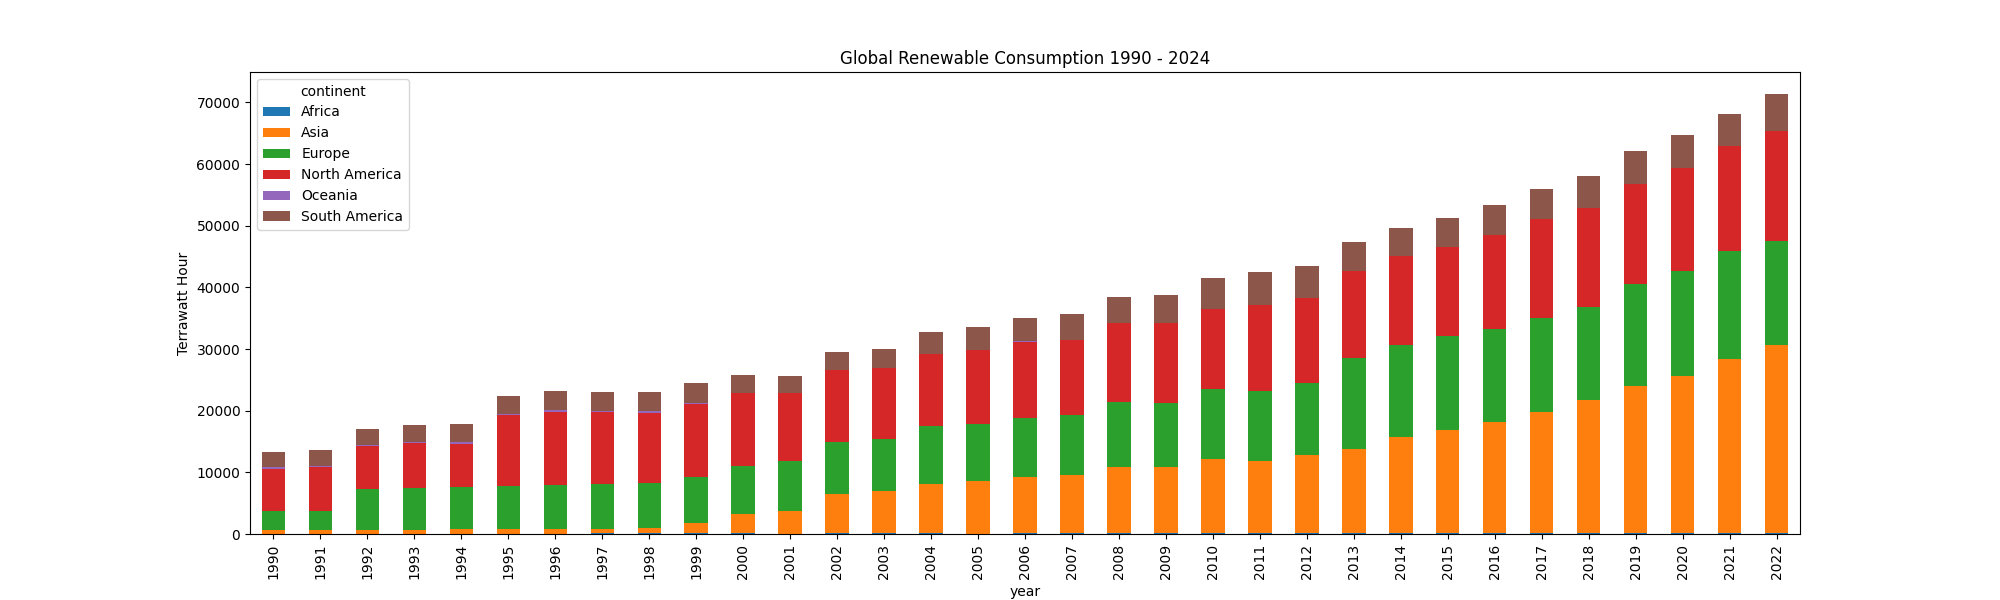
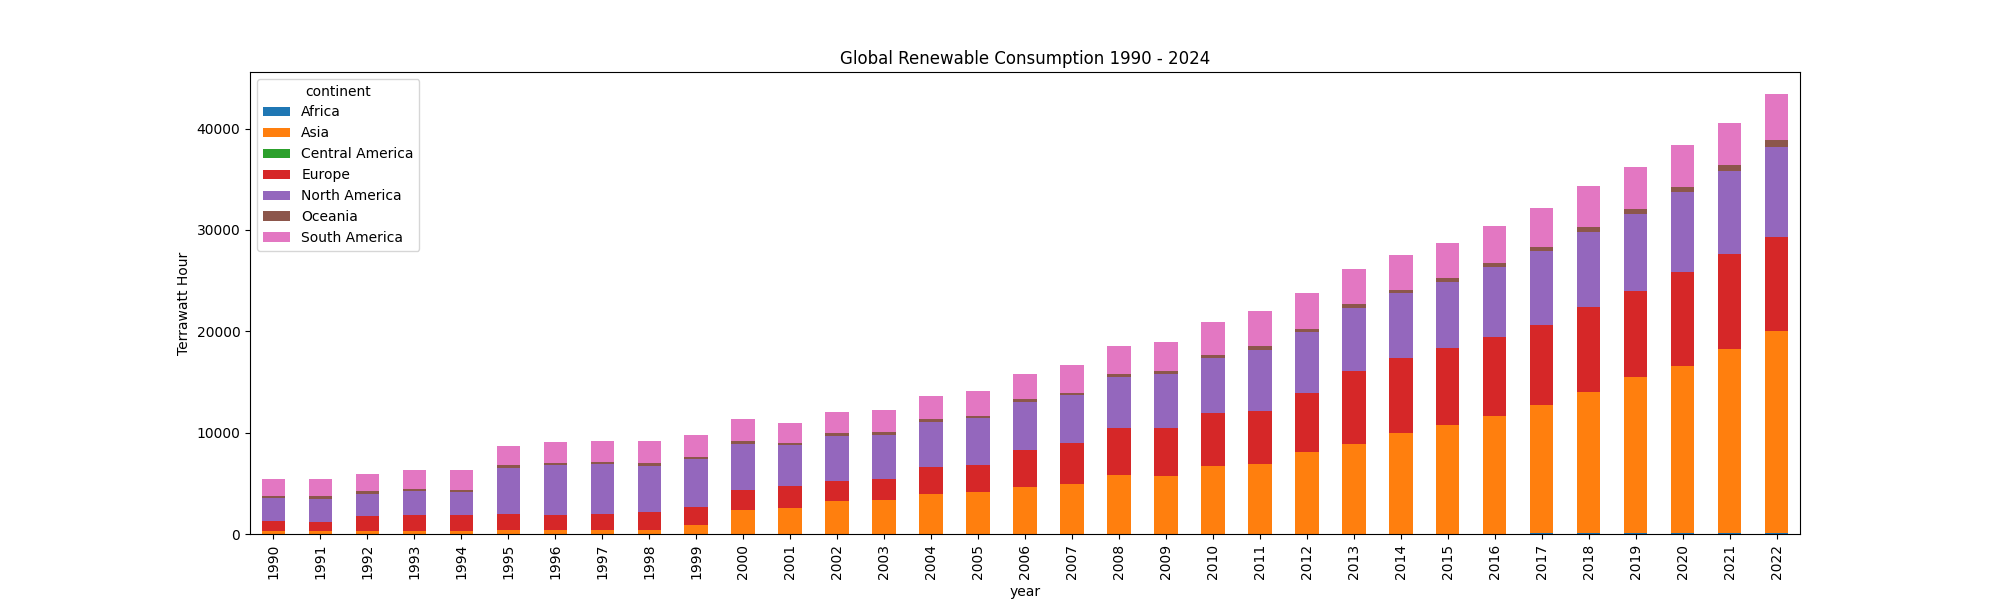
adicionei um grafico

diff --git a/src/data_cleaner.py b/src/data_cleaner.py
@@ -7,7 +7,7 @@ Created on Tue Oct  8 11:52:47 2024
 import numpy as np
 import pandas as pd
 
-df = pd.read_csv("..\data\World Energy Consumption.csv")
+df = pd.read_csv(".\data\World Energy Consumption.csv")
 #print(df.info())
 #print(df.head())
 
@@ -96,7 +96,7 @@ countries_by_continent_map = {
     "Oceania": ["Australia", "Fiji", "Kiribati", "Marshall Islands", "Micronesia", "Nauru", "New Zealand", "Palau", "Papua New Guinea", "Samoa", "Solomon Islands", "Tonga", "Tuvalu", "Vanuatu"]
 }
 
-# Filters lines that are countries and are defined in the dictionary
+# Filters rows that are countries and are defined in the dictionary
 def continent_identifier(country: str) -> str:
     """
     Identifies the continent of a country.
@@ -141,18 +141,17 @@ def renewable_energy_consumption_by_continent(df: pd.DataFrame) -> pd.DataFrame:
     # Creates a new column with the continent of each country
     df["continent"] = df["country"].apply(continent_identifier)
     # Filters the columns of interest
-    df_continents = df[["continent", "year", "biofuel_consumption", "hydro_consumption", "other_renewable_consumption", "renewables_consumption", "solar_consumption", "wind_consumption"]]
-    # Filters the lines without empty values
-    no_nulls_rows = df_continents.dropna(subset=["biofuel_consumption", "hydro_consumption", "other_renewable_consumption", "renewables_consumption", "solar_consumption", "wind_consumption"], how='any')
-    # Filters the valid lines with years between 1990 and 2024
-    new_df = no_nulls_rows[(no_nulls_rows['year'] >= 1990) & (no_nulls_rows['year'] <= 2024)]
+    df_continents = df[["continent", "year", "population", "biofuel_consumption", "hydro_consumption", "other_renewable_consumption", "renewables_consumption", "solar_consumption", "wind_consumption"]]
+    # Filters the rows that have no data in the columns of interest
+    filtered_df = df_continents.dropna(subset=["biofuel_consumption", "hydro_consumption", "other_renewable_consumption", "renewables_consumption", "solar_consumption", "wind_consumption"], how='all')
+    # Filters the rows that have no data in the population column
+    null_population_continents = df.groupby("continent").filter(lambda x: x["population"].isna().all())["continent"].unique()
+    # Junta os filtros e coloca o intervalo de tempo desejado
+    new_df = filtered_df[~filtered_df["continent"].isin(null_population_continents) & (filtered_df["year"].between(1990, 2024))]
     return new_df
 
 # Calls the function to create the new DataFrame
 renewable_energy_consumption_continental = renewable_energy_consumption_by_continent(df)
-
-    
-    
     
     
     

diff --git a/src/continent_consumption_analysis.py b/src/continent_consumption_analysis.py
@@ -14,13 +14,13 @@ df = pd.DataFrame(data_cleaner.renewable_energy_consumption_continental)
 df['total_renewable_consumption'] = (
     df['biofuel_consumption'] +
     df['hydro_consumption'] +
-    df['low_carbon_consumption'] +
-    df['nuclear_consumption'] +
     df['other_renewable_consumption'] +
     df['renewables_consumption'] +
     df['solar_consumption'] +
     df['wind_consumption']
 )
+
+df['renewable_consumption_per_capita'] = df['total_renewable_consumption'] / df['population']
 
 # Plots the stacked bar chart
 def plot_renewable_energy_consumption_continental(df: pd.DataFrame) -> None:
@@ -45,3 +45,26 @@ def plot_renewable_energy_consumption_continental(df: pd.DataFrame) -> None:
 
 # Calls the function to plot the stacked bar chart  
 plot_renewable_energy_consumption_continental(df)
+
+def plot_renewable_energy_consumption_per_capita(df: pd.DataFrame) -> None:
+    """
+    Plots a stacked bar chart with the total renewable energy consumption per capita by continent over the years.
+
+    Parameters
+    ----------
+    df : pd.DataFrame
+        The DataFrame with the data of the continents.
+    """
+    # Groups the data by year and continent
+    grouped_data = df.groupby(['year', 'continent'])['renewable_consumption_per_capita'].sum().unstack()
+    grouped_data.reset_index(level=0, inplace=True)
+
+    # Adjusts the plot
+    grouped_data.plot(x='year', ylabel='Terrawatt Hour', kind='bar', stacked=True,figsize=(20,6),
+            title='Global Renewable Consumption per Capita 1990 - 2024')
+    plt.savefig('.\plots\Global_Renewable_Consumption_per_Capita_1990_2024.png')
+    plt.show()
+    plt.close()
+
+# Calls the function to plot the stacked bar chart
+plot_renewable_energy_consumption_per_capita(df)
